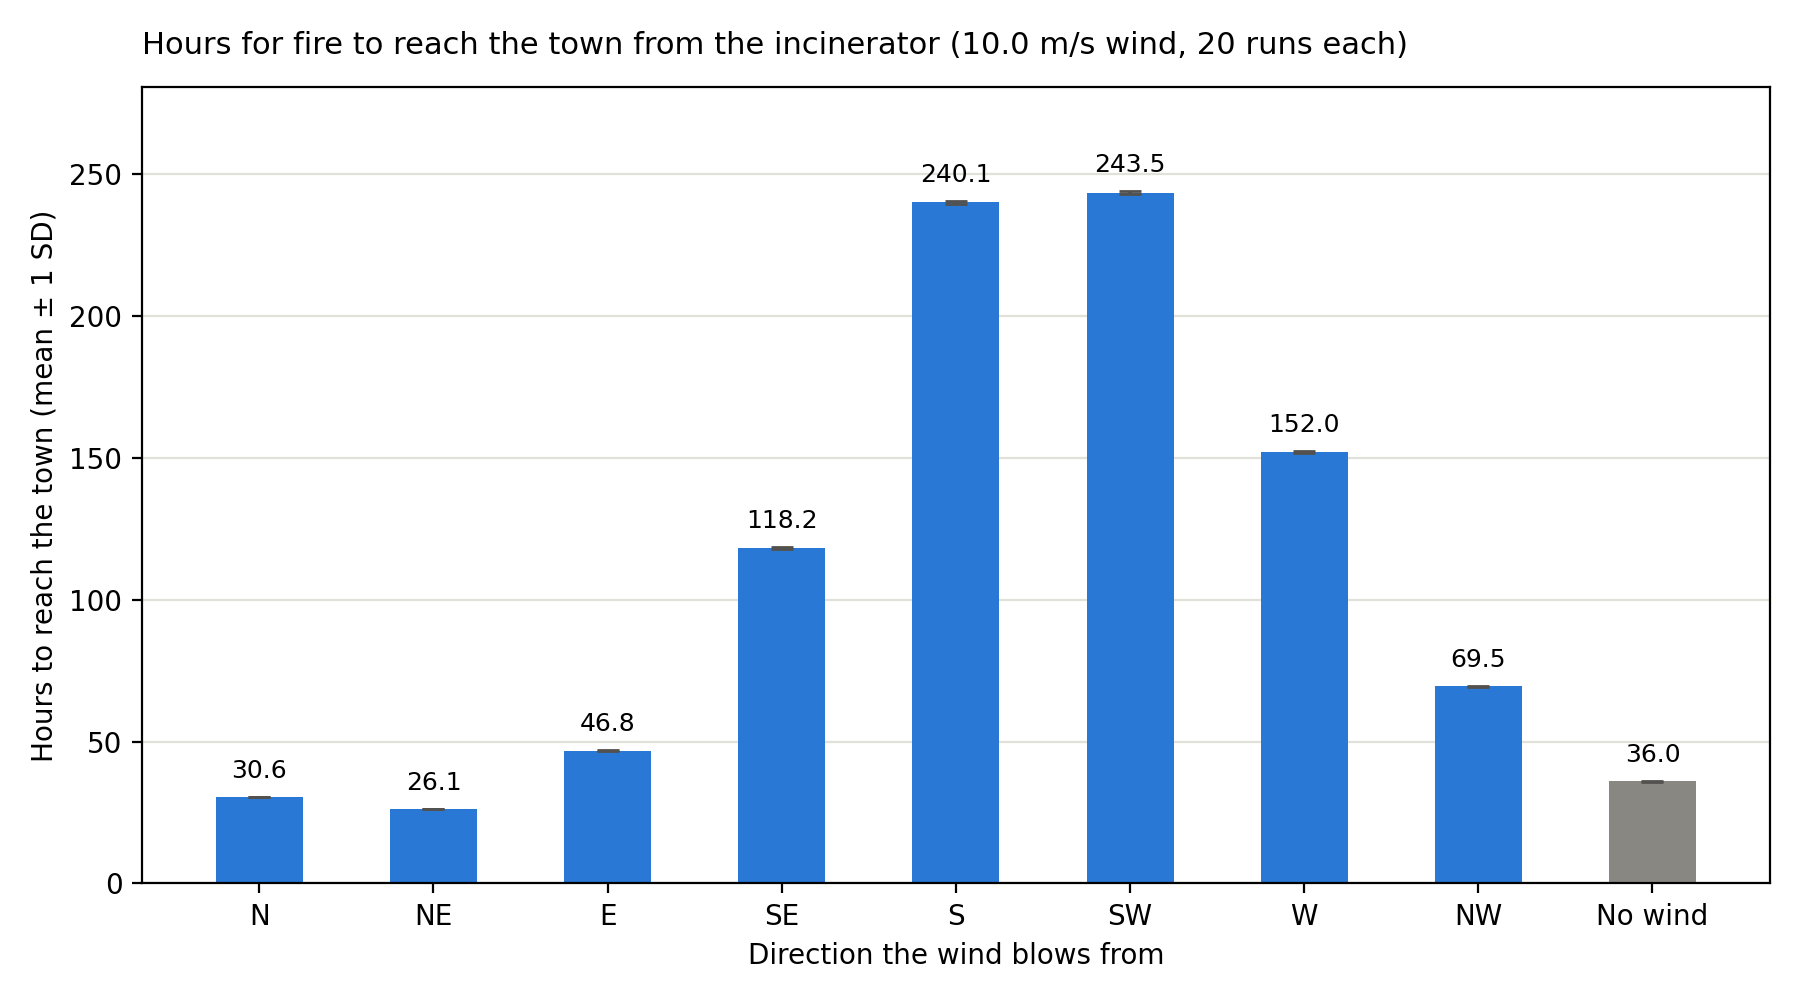
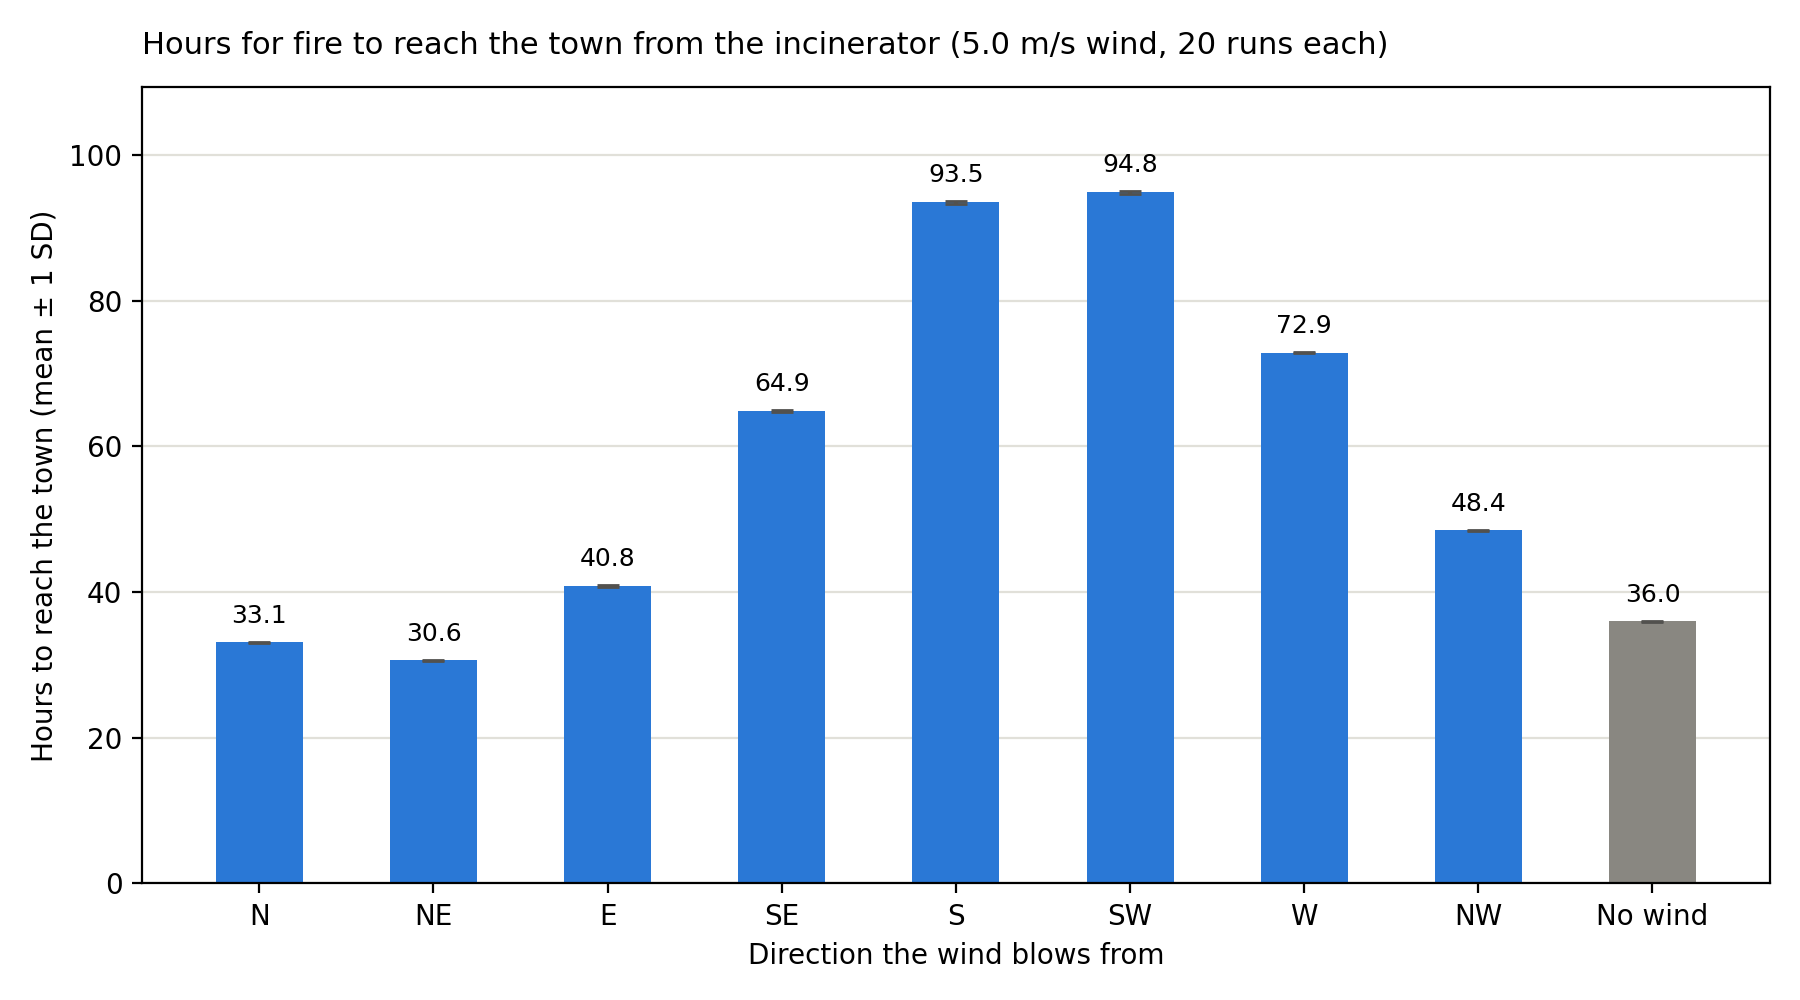
add other water barrier test

diff --git a/ca_descriptions/forest_fire_model.py b/ca_descriptions/forest_fire_model.py
@@ -137,7 +137,7 @@ class Context:
     min_burn_time_random_multiplier = 0.8
 
     # Hour the 12.5km^2 of water is dropped
-    water_deploy_hours = -1 # put to -1 if you want to disable, put to 0.0 if you want placement at step 1
+    water_deploy_hours = 0 # put to -1 if you want to disable, put to 0.0 if you want placement at step 1
     # Try 20 wide (0.25 x 20) = 5km
     # Try 10 tall (0.25 s 10) = 2.5km
     # 10 tall
@@ -146,8 +146,8 @@ class Context:
     #         slice(160, 200)
     # 14 x 0.25 = 3.5km
     water_deployment_rectangular_region = (
-        slice(35, 40),
-        slice(160, 200)
+        slice(0, 40),
+        slice(130, 135)
     )
 
     @classmethod

diff --git a/experiments/wind_directions.py b/experiments/wind_directions.py
@@ -24,7 +24,7 @@ from capyle.ca import Grid2D
 
 BURNING_STATE = 0
 
-WIND_SPEED = 10.0  # m/s
+WIND_SPEED = 5.0  # m/s
 
 RUNS_PER_DIRECTION = 20  # same seeds for every direction
 
